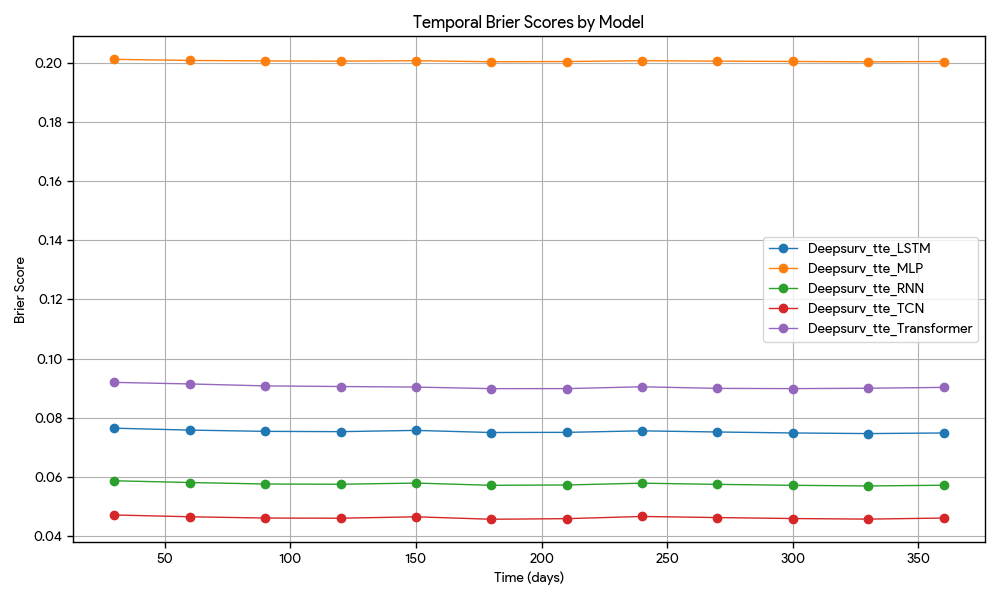
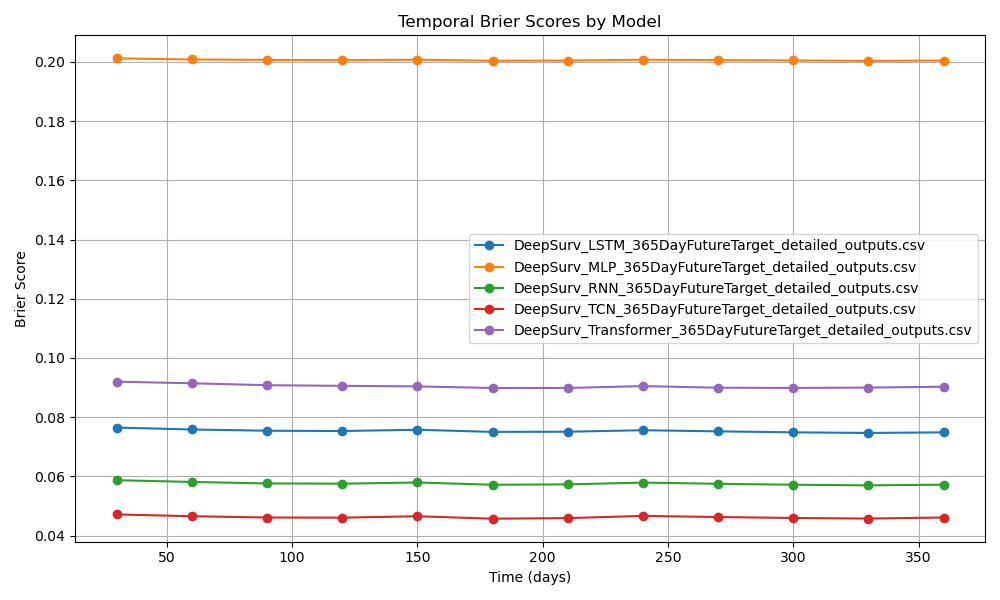
update

Changed region(s): [[0.0, 0.03, 0.992, 0.9], [0.093, 0.9, 0.961, 0.99]]

diff --git a/ld_scripts/results_surv.py b/ld_scripts/results_surv.py
@@ -341,7 +341,6 @@ def evaluate_model_fullsample_2(df, eval_day, bootstrap=False, random_state=None
 
     # return c_index, auc_365, brier_365
     return {"AUC@365": auc_365, "C-index": float(c_index), "brier_score": brier_365}
-    
 def evaluate_model_fullsample(df, eval_day):
     """
     Compute C-index, time-dependent AUC@eval_day, and IPCW Brier@eval_day
@@ -351,18 +350,13 @@ def evaluate_model_fullsample(df, eval_day):
     T = df['tte_cox_true_time'].values
     E = df['tte_cox_true_event'].astype(bool).values
     R = df['tte_cox_risk_score'].values
-    print(df.head())
-    
-    # surv = Surv.from_arrays(E, T)
+    # print(df.head())
+
     surv, risks = create_surv_object(df)
 
-    from scipy.special import expit
-    surv_probs = 1 - expit(R)
     # Concordance
     try:
         c_index = concordance_index_ipcw(surv, surv, R)[0]
-
-        # c_index = concordance_index(T, -R, event_observed=E)
     except Exception:
         c_index = np.nan
 
@@ -370,23 +364,22 @@ def evaluate_model_fullsample(df, eval_day):
     try:
         _, auc_vals = cumulative_dynamic_auc(surv, surv, risks, eval_day)
         auc_365 = float(auc_vals[0]) if isinstance(auc_vals, (list, np.ndarray)) else float(auc_vals)
-    
-        # _, auc_vals = cumulative_dynamic_auc(
-        #     survival_train=surv,
-        #     survival_test=surv,
-        #     estimate=R,
-        #     times=np.array([eval_day])
-        # )
-        # auc_365 = float(auc_vals) 
     except Exception:
         auc_365 = np.nan
-    
 
-    # IPCW-weighted Brier score
+    # IPCW-weighted Brier score — now uses cl_prob_1, matching pt2
     try:
+        if 'cl_prob_1' not in df.columns:
+            print(df.columns)
+            raise ValueError("cl_prob_1 column not found; cannot compute Brier score consistently with pt2")
+
+        df_brier = df.dropna(subset=['cl_prob_1'])
+        surv_brier, _ = create_surv_object(df_brier)
+        surv_probs = 1 - df_brier['cl_prob_1'].values  # survival probability, same convention as pt2
+
         _, brier_vals = brier_score(
             survival_train=surv,
-            survival_test=surv,
+            survival_test=surv_brier,
             estimate=surv_probs,
             times=np.array([eval_day])
         )
@@ -395,8 +388,6 @@ def evaluate_model_fullsample(df, eval_day):
     except Exception:
         brier_365 = np.nan
 
-    
-    # return c_index, auc_365, brier_365
     return {"AUC@365": auc_365, "C-index": float(c_index), "brier_score": brier_365}
 
 def plot_risk_distribution(df, model_name):
@@ -539,15 +530,11 @@ def evaluate_models_pt3(filepaths, EVAL_DAY=365, n_boot=1000, n_workers=8,
         # use the same timepoints across all models
         print(test_df.columns)
         print(df_full.columns)
+
         merged = (
-            # df_full.merge(
-            #     test_df[['PatientID', 'tte_cox_true_time']],
-            #     on=['PatientID', 'tte_cox_true_time'],
-            #     how='inner'
-            # )
             test_df[['PatientID', 'tte_cox_true_time', 'tte_cox_true_event']]
             .merge(
-                df_full[['PatientID', 'tte_cox_true_time', 'tte_cox_risk_score']],
+                df_full[['PatientID', 'tte_cox_true_time', 'tte_cox_risk_score', 'cl_prob_1']],
                 on=['PatientID', 'tte_cox_true_time'],
                 how='inner'
             )
